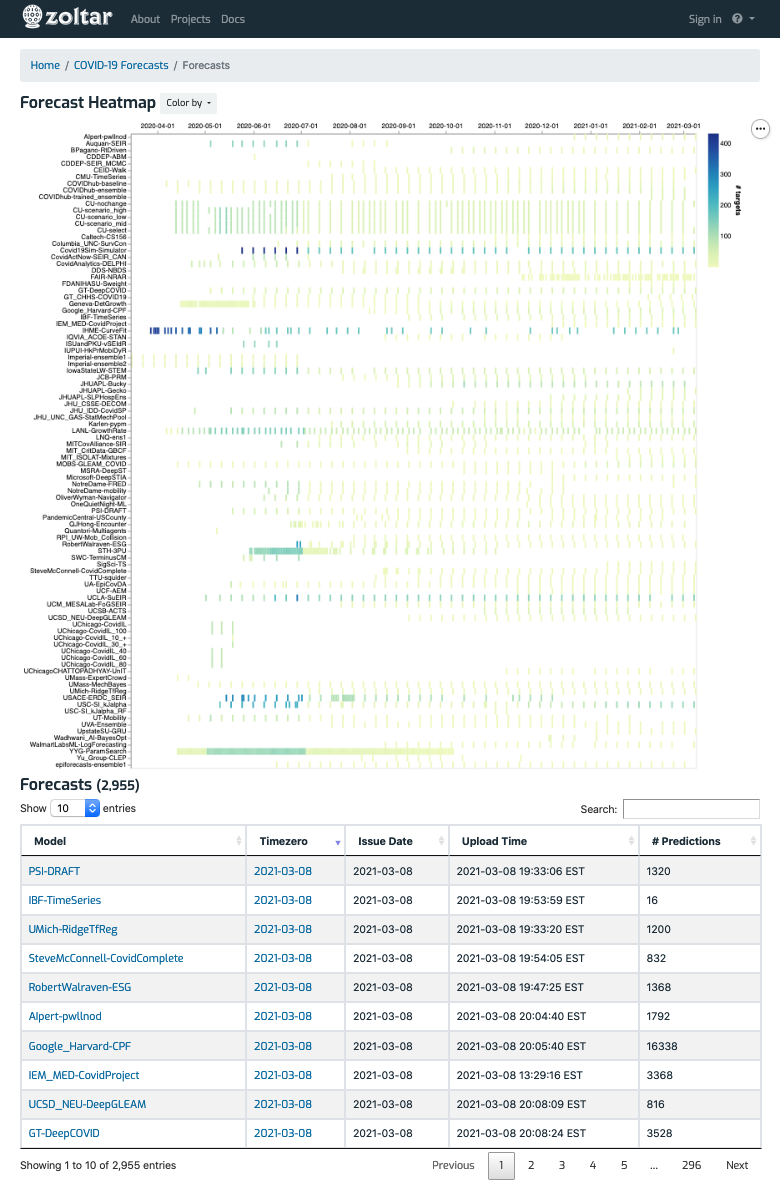
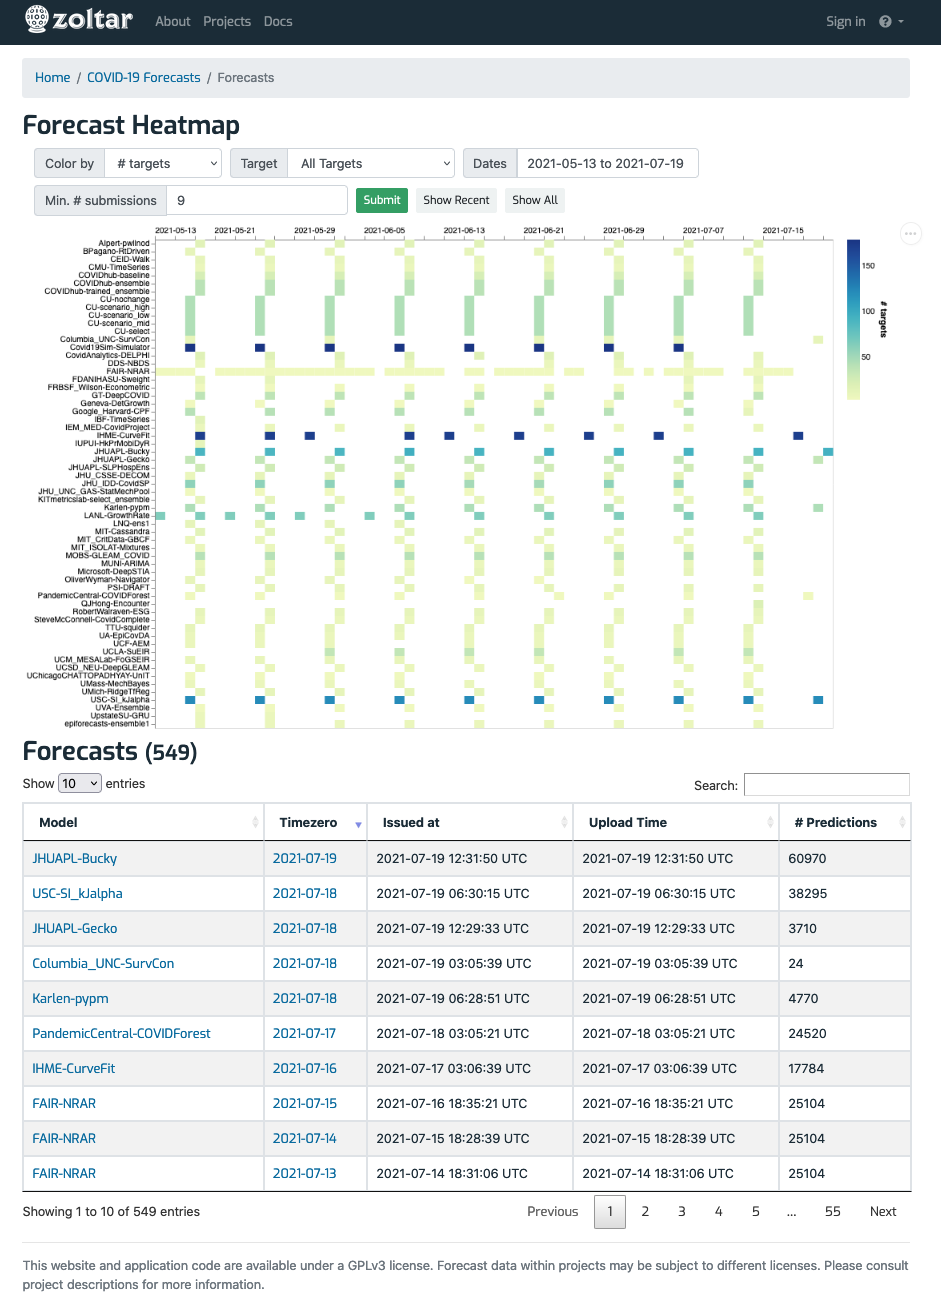
[allow for filtering in project forecasts summary #306]

Changed region(s): [[0.0, 0.0, 0.9846, 1.0], [0.8923, 0.0, 0.9538, 0.0305]]

diff --git a/docs/ForecastsSummaryPage.md b/docs/ForecastsSummaryPage.md
@@ -1,6 +1,23 @@
 # Forecasts summary page
 
-Reached via the [project detail page](ProjectDetailPage.md)'s _Features_ section, this page collects a summary of all of a project's forecasts. It contains a heatmap at the top that can be colored in one of three ways (# predictions, # units, or # targets), and a table of all forecasts (including all versions) in the project. Follow are examples from two projects. Hovering the mouse over the heatmap shows information for that particular forecast (only the latest versions are shown), and clicking takes you to that forecast.
+Reached via the [project detail page](ProjectDetailPage.md)'s _Features_ section, this page collects a summary of all of a project's forecasts. It has a heatmap at the top that can be colored in one of three ways (# predictions, # units, or # targets), and a table of all forecasts (including all versions) in the project. Note that the table's contents have the same filtering applied as the heatmap. 
+
+
+You can filter the display and the results via the form at the top:
+
+- **Color by**: A dropdown of three choices, controls which aspect of forecasts is to be shown: _# predictions_, _# units_, or _# targets_ (the default). 
+- **Target**: A dropdown of project's target groups, allows filtering by target. The default is no target filtering. 
+- **Dates**: Opens a date range picker to choose the start and end dates of forecast time zeros that should be included in the display. Defaults to the project's 60 most recent time zeros. You will see the default filled in on the form if it was applied.
+- **Min. # submissions**: An integer that filters based on how many forecasts a model has made. Only models with at least that many forecasts will be shown. The default is to show only those models' forecasts that are at least 5% of the max number of submissions from any model. You will see the default filled in on the form if it was applied.
+
+
+There are three buttons in the filter section:
+
+- **Submit**: Applies the form's contents and displays the resulting forecasts.
+- **Show Recent**: Shows the forecasts matching the default filtering above. This is the equivalent of going straight to this page from the [project detail page](ProjectDetailPage.md).
+- **Show all**: Overrides all filtering to show all of the project's forecasts. Note that this may be slow to load for large projects.
+
+Following are examples from two projects. Hovering the mouse over the heatmap shows information for that particular forecast (only the latest versions are shown), and clicking takes you to that forecast.
 
 
 ## Documentation project

diff --git a/docs/HomePage.md b/docs/HomePage.md
@@ -5,7 +5,7 @@ The Zoltar home page [zoltardata.com](https://www.zoltardata.com/) is a simple w
 
 ## Navigation header
 
-At the page's top is a black navigation header that's shown on all pages. It contains three icons: Home page (the Zoltar crystal ball in the upper left), and on the right a user drop down menu and a help icon (question mark) on the far right. The drop down menu's appearance depends on whether a user is logged in. If you are not logged in then "Sign in" is shown as in the screen shot. Clicking "Sign in" takes you to a typical login page where you specify your account's user name and password. (To obtain an account, please [contact us](index.md#contact).) If you are logged in then its text is the user name and the menu items are links to the user profile page, and a logout item. Currently, the page looks like this:
+At the page's top is a black navigation header that's shown on all pages. It contains three icons: Home page (the Zoltar crystal ball in the upper left), and on the right a user dropdown menu and a help icon (question mark) on the far right. The dropdown menu's appearance depends on whether a user is logged in. If you are not logged in then "Sign in" is shown as in the screen shot. Clicking "Sign in" takes you to a typical login page where you specify your account's user name and password. (To obtain an account, please [contact us](index.md#contact).) If you are logged in then its text is the user name and the menu items are links to the user profile page, and a logout item. Currently, the page looks like this:
 
 ![Zoltar Home page](img/home-page.png "Zoltar Home page")
 
@@ -23,4 +23,4 @@ This page shows all projects in the archive that are visible to you, based on wh
 From here you can:
 
 - Click on a project name to go to its [detail page](ProjectDetailPage.md).
-- Create a project if you are signed in. (Any logged in user can create projects via the "New" drop down button towards the top. Clicking it allows you to create one either by uploading a [project configuration file](FileFormats.md#project-creation-configuration-json) or creating via a form where you can fill in some basic details. See [Creating projects](Projects.md) for details.
+- Create a project if you are signed in. (Any logged in user can create projects via the "New" dropdown button towards the top. Clicking it allows you to create one either by uploading a [project configuration file](FileFormats.md#project-creation-configuration-json) or creating via a form where you can fill in some basic details. See [Creating projects](Projects.md) for details.

diff --git a/docs/Accounts.md b/docs/Accounts.md
@@ -5,7 +5,7 @@ Zoltar provides some basic features for managing your account, which this page d
 
 ## View your profile page
 
-Account features are accessed via the user drop down menu in the black [navigation header](HomePage.md#navigation header) that's shown at the top of all pages:
+Account features are accessed via the user dropdown menu in the black [navigation header](HomePage.md#navigation header) that's shown at the top of all pages:
 
 ![User dropdown menu](img/user-dropdown-menu.png "User dropdown menu")
 
@@ -21,6 +21,6 @@ From this page you can use the buttons at the top to edit your email address and
 
 Zoltar has a basic "amnesia" feature in case you forget your password. To use it:
 
-1. Click the "Sign in" user drop down menu in the black [navigation header](HomePage.md#navigation header) that's shown at the top of all pages.
+1. Click the "Sign in" user dropdown menu in the black [navigation header](HomePage.md#navigation header) that's shown at the top of all pages.
 1. On the user login page, click the "Lost password?" link.
 1. Follow the instructions that are sent to the email address you registered with Zoltar.
